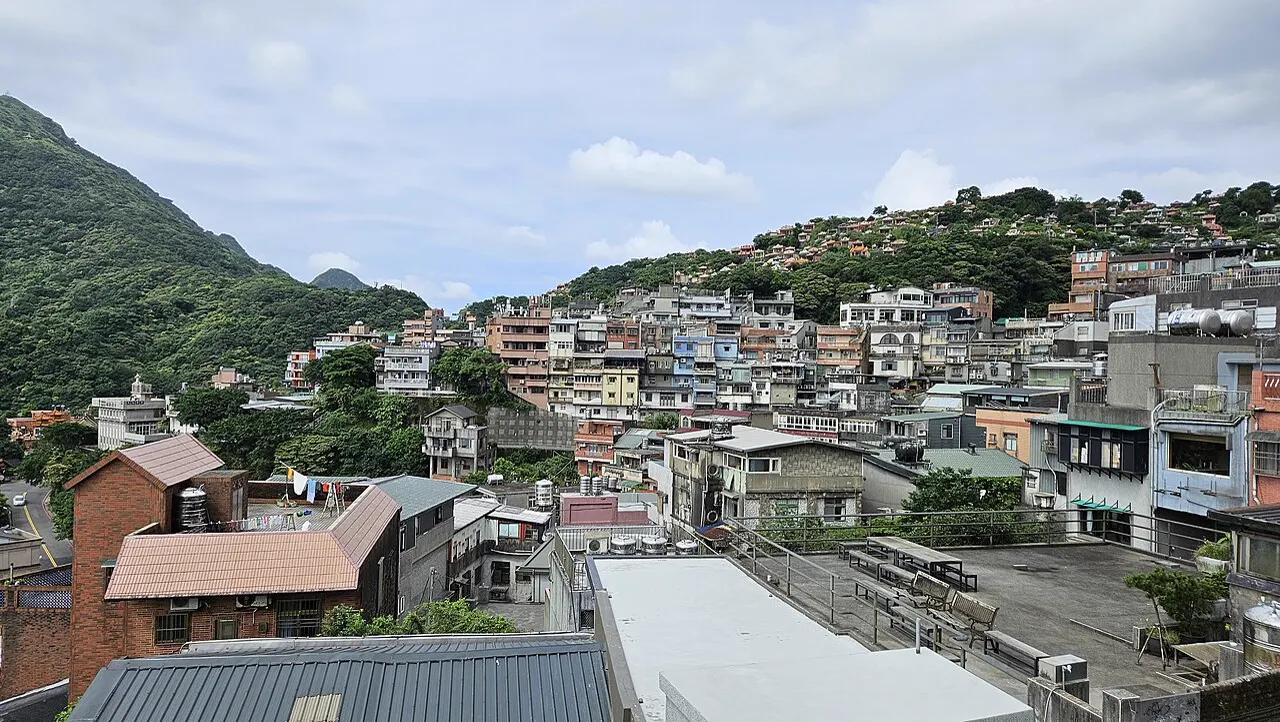
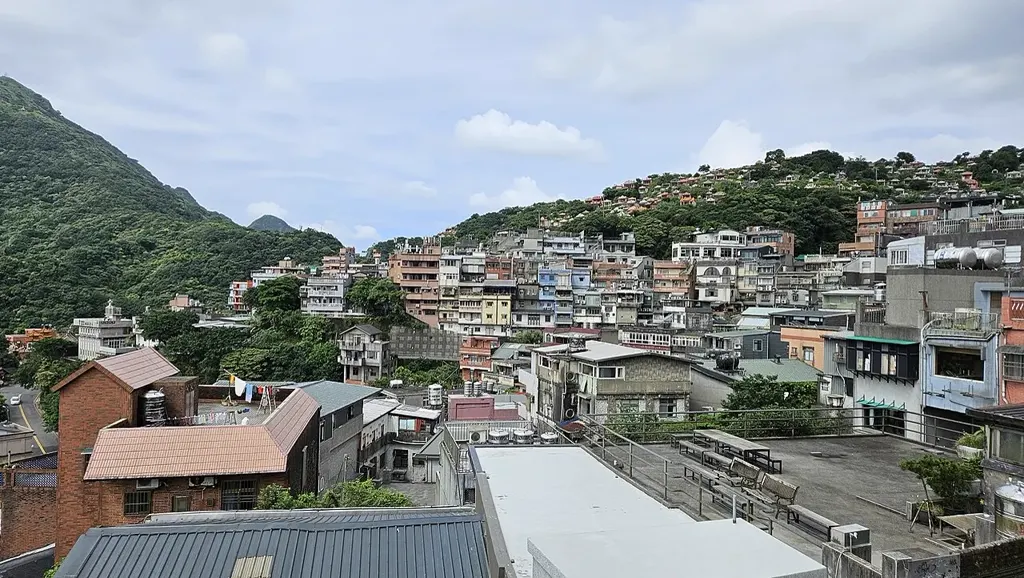
Fix accessibility and asset metadata

diff --git a/credits.html b/credits.html
@@ -15,18 +15,20 @@
   <header class="site-header"><div class="container header-panel">
     <a class="logo-badge" href="index.html" aria-label="Taiwan home">TW</a>
     <button class="menu-button" type="button" aria-expanded="false" aria-controls="site-menu">Menu</button>
+    <nav aria-label="Main">
     <ul class="site-menu" id="site-menu"><li><a href="index.html">Home</a></li><li><a href="attractions.html">Attractions</a></li><li><a href="food.html">Food</a></li><li><a href="credits.html" aria-current="page">Credits</a></li></ul>
+    </nav>
   </div></header>
   <main id="main">
     <section class="section"><div class="container"><h1>Credits</h1>
       <h2>Images and video</h2>
       <ul class="credits-list">
-        <li><strong>Taipei 101</strong> — <a href="https://commons.wikimedia.org/wiki/File:Taipei_101_2009_amk-EditMylius.jpg">AngMoKio</a>, <a href="https://commons.wikimedia.org/wiki/File:Taipei_101_2009_amk-EditMylius.jpg">Wikimedia Commons</a>, <a href="https://creativecommons.org/licenses/by-sa/3.0">CC BY-SA 3.0</a>. Used on: Home, Attractions.</li>
-        <li><strong>Taroko Gorge</strong> — <a href="https://commons.wikimedia.org/wiki/File:Taroko-Gorge_Hualien_Taiwan_Cihmu-Bridge-at-Taroko-National-Park-01.jpg">CEphoto, Uwe Aranas</a>, Wikimedia Commons, <a href="https://creativecommons.org/licenses/by-sa/3.0">CC BY-SA 3.0</a>. Used on: Home, Attractions.</li>
-        <li><strong>Sun Moon Lake</strong> — <a href="https://commons.wikimedia.org/wiki/File:Kandance2005_sun_moon_lake.jpg">Kandance2005</a>, Wikimedia Commons, <a href="https://creativecommons.org/licenses/by-sa/2.0/tw/deed.en">CC BY-SA 2.0 Taiwan</a>. Used on: Home, Attractions.</li>
-        <li><strong>Jiufen Buildings</strong> — <a href="https://commons.wikimedia.org/wiki/File:Jiufen_Buildings_1.jpg">Ganmatthew</a>, Wikimedia Commons, <a href="https://creativecommons.org/licenses/by/4.0">CC BY 4.0</a>. Used on: Home, Attractions.</li>
-        <li><strong>Linjiang Street Night Market</strong> — <a href="https://commons.wikimedia.org/wiki/File:2007-10-23_pancakes_vendor_at_Linjiang_Street_Night_Market,_Taipei.jpg">Yun Huang Yong</a>, Wikimedia Commons, <a href="https://creativecommons.org/licenses/by/2.0">CC BY 2.0</a>. Used on: Home, Attractions, Food.</li>
-        <li><strong>50 Lan Bubble Tea</strong> — <a href="https://commons.wikimedia.org/wiki/File:50_Lan_Bubble_Tea_20061226.jpg">Toby Oxborrow</a>, Wikimedia Commons, <a href="https://creativecommons.org/licenses/by-sa/2.0">CC BY-SA 2.0</a>. Used on: Food.</li>
+        <li><strong>Taipei 101</strong> — <a href="https://commons.wikimedia.org/wiki/User:AngMoKio">AngMoKio</a>, <a href="https://commons.wikimedia.org/wiki/File:Taipei_101_2009_amk-EditMylius.jpg">Wikimedia Commons</a>, <a href="https://creativecommons.org/licenses/by-sa/3.0">CC BY-SA 3.0</a>. Used on: Home, Attractions.</li>
+        <li><strong>Taroko Gorge</strong> — <a href="https://commons.wikimedia.org/wiki/User:Ce_photo">CEphoto, Uwe Aranas</a>, <a href="https://commons.wikimedia.org/wiki/File:Taroko-Gorge_Hualien_Taiwan_Cihmu-Bridge-at-Taroko-National-Park-01.jpg">Wikimedia Commons</a>, <a href="https://creativecommons.org/licenses/by-sa/3.0">CC BY-SA 3.0</a>. Used on: Home, Attractions.</li>
+        <li><strong>Sun Moon Lake</strong> — <a href="https://commons.wikimedia.org/wiki/User:Kandance2005">Kandance2005</a>, <a href="https://commons.wikimedia.org/wiki/File:Kandance2005_sun_moon_lake.jpg">Wikimedia Commons</a>, <a href="https://creativecommons.org/licenses/by-sa/2.0/tw/deed.en">CC BY-SA 2.0 Taiwan</a>. Used on: Home, Attractions.</li>
+        <li><strong>Jiufen Buildings</strong> — <a href="https://commons.wikimedia.org/wiki/User:Ganmatthew">Ganmatthew</a>, <a href="https://commons.wikimedia.org/wiki/File:Jiufen_Buildings_1.jpg">Wikimedia Commons</a>, <a href="https://creativecommons.org/licenses/by/4.0">CC BY 4.0</a>. Used on: Home, Attractions.</li>
+        <li><strong>Linjiang Street Night Market</strong> — <a href="https://commons.wikimedia.org/wiki/User:Yun_Huang_Yong">Yun Huang Yong</a>, <a href="https://commons.wikimedia.org/wiki/File:2007-10-23_pancakes_vendor_at_Linjiang_Street_Night_Market,_Taipei.jpg">Wikimedia Commons</a>, <a href="https://creativecommons.org/licenses/by/2.0">CC BY 2.0</a>. Used on: Home, Food.</li>
+        <li><strong>50 Lan Bubble Tea</strong> — <a href="https://commons.wikimedia.org/wiki/User:Toby_Oxborrow">Toby Oxborrow</a>, <a href="https://commons.wikimedia.org/wiki/File:50_Lan_Bubble_Tea_20061226.jpg">Wikimedia Commons</a>, <a href="https://creativecommons.org/licenses/by-sa/2.0">CC BY-SA 2.0</a>. Used on: Food.</li>
         <li><strong>Google Timelapse: Taipei, Taiwan</strong> — <a href="https://commons.wikimedia.org/wiki/File:Google_Timelapse-_Taipei,_Taiwan.webm">Google Earth</a>, Wikimedia Commons, <a href="https://creativecommons.org/licenses/by/3.0">CC BY 3.0</a>. Used on: Home. Re-encoded to a 40-second WebM clip.</li>
       </ul>
       <h2>Text and code resources</h2>
@@ -37,7 +39,7 @@
         <li><a href="https://www.govinfo.gov/content/pkg/STATUTE-94/pdf/STATUTE-94-Pg224.pdf">Taiwan Relations Act</a> — United States public law, 1979. Short quotation used on Home.</li>
       </ul>
       <h2>AI assistance</h2>
-      <p>Copilot SDK in VS Code was used to plan the pages, write HTML/CSS/JavaScript, select and verify Wikimedia Commons media candidates, prepare image and video assets, and draft this credits list. The student remains responsible for final review and publication.</p>
+      <p>Copilot SDK in VS Code was used to plan the pages, write HTML/CSS/JavaScript, select and verify Wikimedia Commons media candidates, prepare image and video assets, and draft this credits list. Claude was not used. Images and video were resized or cropped and converted or re-encoded to the WebP/WebM formats used on this site. The student remains responsible for final review and publication.</p>
     </div></section>
   </main>
   <footer class="site-footer"><div class="container footer-inner"><p>Friendly travel guide to Taiwan.</p><a href="index.html">Back to Home</a></div></footer>

diff --git a/index.html b/index.html
@@ -19,18 +19,20 @@
     <div class="container header-panel">
       <a class="logo-badge" href="index.html" aria-label="Taiwan home">TW</a>
       <button class="menu-button" type="button" aria-expanded="false" aria-controls="site-menu">Menu</button>
+      <nav aria-label="Main">
       <ul class="site-menu" id="site-menu">
         <li><a href="index.html" aria-current="page">Home</a></li>
         <li><a href="attractions.html">Attractions</a></li>
         <li><a href="food.html">Food</a></li>
         <li><a href="credits.html">Credits</a></li>
       </ul>
+      </nav>
     </div>
   </header>
   <main id="main">
     <section class="hero">
       <div class="container hero-card">
-        <img src="images/taipei-101.webp" alt="Taipei 101 rising above the city skyline" width="1280" height="853">
+        <img src="images/taipei-101.webp" alt="Taipei 101 rising above the city skyline" width="1024" height="1652">
         <div class="hero-title"><h1>Taiwan</h1><p>An island of mountain trails, night markets and warm welcomes.</p></div>
       </div>
     </section>
@@ -43,24 +45,24 @@
           <dl class="fact-list">
             <div><dt>Capital</dt><dd>Taipei</dd></div>
             <div><dt>Population</dt><dd>~23.5 million</dd></div>
-            <div><dt>Languages</dt><dd>Mandarin</dd></div>
+            <div><dt>Languages</dt><dd>Mandarin, Taiwanese, Hakka and Indigenous languages</dd></div>
             <div><dt>Currency</dt><dd>New Taiwan dollar</dd></div>
           </dl>
         </div>
-        <img src="images/sun-moon-lake.webp" alt="Mountain ridges surrounding a calm lake" width="1280" height="853" loading="lazy">
+        <img src="images/sun-moon-lake.webp" alt="Mountain ridges surrounding a calm lake" width="1280" height="960" loading="lazy">
       </div>
     </section>
     <section class="section panel pink">
       <div class="container">
-        <h2 class="pickup-heading">Pick up</h2>
+        <h2 class="pickup-heading">Featured</h2>
         <div class="card-grid">
-          <article class="pickup-card"><a href="attractions.html"><img src="images/taroko.webp" alt="" width="1280" height="853" loading="lazy"><div class="card-copy"><span class="tag">Nature</span><h3>Walk through Taroko Gorge</h3></div></a></article>
-          <article class="pickup-card"><a href="attractions.html"><img src="images/jiufen.webp" alt="" width="1280" height="853" loading="lazy"><div class="card-copy"><span class="tag">Old town</span><h3>Explore Jiufen's lanes</h3></div></a></article>
-          <article class="pickup-card"><a href="food.html"><img src="images/night-market.webp" alt="" width="1280" height="853" loading="lazy"><div class="card-copy"><span class="tag">Night market</span><h3>Taste Taipei after dark</h3></div></a></article>
+          <article class="pickup-card"><a href="attractions.html"><img src="images/taroko.webp" alt="" width="1024" height="684" loading="lazy"><div class="card-copy"><span class="tag">Nature</span><h3>Walk through Taroko Gorge</h3></div></a></article>
+          <article class="pickup-card"><a href="attractions.html"><img src="images/jiufen.webp" alt="" width="1024" height="578" loading="lazy"><div class="card-copy"><span class="tag">Old town</span><h3>Explore Jiufen's lanes</h3></div></a></article>
+          <article class="pickup-card"><a href="food.html"><img src="images/night-market.webp" alt="" width="1280" height="960" loading="lazy"><div class="card-copy"><span class="tag">Night market</span><h3>Taste Taipei after dark</h3></div></a></article>
         </div>
       </div>
     </section>
-    <section class="section">
+    <section class="section" id="video">
       <div class="container">
         <h2>Watch Taipei in motion</h2>
         <video controls preload="metadata" poster="images/taipei-101.webp">
@@ -72,10 +74,12 @@
     </section>
     <section class="section">
       <div class="container">
-        <blockquote class="quote-card">
-          “It is the policy of the United States to preserve and promote extensive, people-to-people relations between the inhabitants of the United States and the people on Taiwan.”
-          <cite>Taiwan Relations Act, Public Law 96-8, 1979</cite>
-        </blockquote>
+        <figure class="quote-card">
+          <blockquote>
+            “It is the policy of the United States to preserve and promote extensive, people-to-people relations between the inhabitants of the United States and the people on Taiwan.”
+          </blockquote>
+          <figcaption>Taiwan Relations Act, Public Law 96-8, 1979</figcaption>
+        </figure>
       </div>
     </section>
     <section class="section">
@@ -84,7 +88,7 @@
         <nav class="round-links" aria-label="Explore website">
           <a class="round-link" href="attractions.html">Explore</a>
           <a class="round-link" href="food.html">Eat</a>
-          <a class="round-link" href="#main">Watch</a>
+          <a class="round-link" href="#video">Watch</a>
           <a class="round-link" href="credits.html">Credits</a>
         </nav>
       </div>

diff --git a/attractions.html b/attractions.html
@@ -15,17 +15,17 @@
   <header class="site-header"><div class="container header-panel">
     <a class="logo-badge" href="index.html" aria-label="Taiwan home">TW</a>
     <button class="menu-button" type="button" aria-expanded="false" aria-controls="site-menu">Menu</button>
+    <nav aria-label="Main">
     <ul class="site-menu" id="site-menu"><li><a href="index.html">Home</a></li><li><a href="attractions.html" aria-current="page">Attractions</a></li><li><a href="food.html">Food</a></li><li><a href="credits.html">Credits</a></li></ul>
+    </nav>
   </div></header>
   <main id="main">
     <section class="section"><div class="container"><h1>Places to explore</h1><p>From high-rise city views to mountain villages and deep gorges, Taiwan rewards travellers who mix major sights with slower local journeys.</p></div></section>
     <section class="section"><div class="container gallery">
-      <article class="attraction-card"><img src="images/taipei-101.webp" alt="Taipei 101 seen from near its base" width="1280" height="853" loading="lazy"><div><h2>Taipei 101</h2><p>The landmark tower offers skyline views, high-speed elevators and a mall below.</p><span class="tag">Best: clear autumn days</span></div></article>
-      <article class="attraction-card"><img src="images/taroko.webp" alt="A road bridge crossing the dramatic Taroko Gorge" width="1280" height="853" loading="lazy"><div><h2>Taroko Gorge</h2><p>Marble cliffs, tunnels and rivers define this celebrated national park.</p><span class="tag">Best: spring and autumn</span></div></article>
-      <article class="attraction-card"><img src="images/sun-moon-lake.webp" alt="Sun Moon Lake framed by green mountains" width="1280" height="853" loading="lazy"><div><h2>Sun Moon Lake</h2><p>Cycle beside the water or take a ferry between lakeside villages.</p><span class="tag">Best: October to April</span></div></article>
-      <article class="attraction-card"><img src="images/jiufen.webp" alt="Hillside buildings and lanes in Jiufen" width="1280" height="853" loading="lazy"><div><h2>Jiufen</h2><p>A former mining town with tea houses, stair lanes and misty mountain views.</p><span class="tag">Best: weekdays</span></div></article>
-      <article class="attraction-card"><img src="images/taipei-101.webp" alt="Taipei city and high-rise buildings" width="1280" height="853" loading="lazy"><div><h2>Alishan</h2><p>Ride mountain railways through forests and watch sunrise over rolling cloud seas.</p><span class="tag">Best: October to March</span></div></article>
-      <article class="attraction-card"><img src="images/night-market.webp" alt="A busy night-market street in Taipei" width="1280" height="853" loading="lazy"><div><h2>Tainan old streets</h2><p>Temple lanes, historic homes and long-running food stalls make Tainan an easygoing detour.</p><span class="tag">Best: cool, dry months</span></div></article>
+      <article class="attraction-card"><img src="images/taipei-101.webp" alt="Taipei 101 seen from near its base" width="1024" height="1652" loading="lazy"><div><h2>Taipei 101</h2><p>The landmark tower offers skyline views, high-speed elevators and a mall below.</p><span class="tag">Best: clear autumn days</span></div></article>
+      <article class="attraction-card"><img src="images/taroko.webp" alt="A road bridge crossing the dramatic Taroko Gorge" width="1024" height="684" loading="lazy"><div><h2>Taroko Gorge</h2><p>Marble cliffs, tunnels and rivers define this celebrated national park.</p><span class="tag">Best: spring and autumn</span></div></article>
+      <article class="attraction-card"><img src="images/sun-moon-lake.webp" alt="Sun Moon Lake framed by green mountains" width="1280" height="960" loading="lazy"><div><h2>Sun Moon Lake</h2><p>Cycle beside the water or take a ferry between lakeside villages.</p><span class="tag">Best: October to April</span></div></article>
+      <article class="attraction-card"><img src="images/jiufen.webp" alt="Hillside buildings and lanes in Jiufen" width="1024" height="578" loading="lazy"><div><h2>Jiufen</h2><p>A former mining town with tea houses, stair lanes and misty mountain views.</p><span class="tag">Best: weekdays</span></div></article>
     </div></section>
   </main>
   <footer class="site-footer"><div class="container footer-inner"><p>Friendly travel guide to Taiwan.</p><a href="credits.html">Media credits</a></div></footer>

diff --git a/food.html b/food.html
@@ -15,13 +15,15 @@
   <header class="site-header"><div class="container header-panel">
     <a class="logo-badge" href="index.html" aria-label="Taiwan home">TW</a>
     <button class="menu-button" type="button" aria-expanded="false" aria-controls="site-menu">Menu</button>
+    <nav aria-label="Main">
     <ul class="site-menu" id="site-menu"><li><a href="index.html">Home</a></li><li><a href="attractions.html">Attractions</a></li><li><a href="food.html" aria-current="page">Food</a></li><li><a href="credits.html">Credits</a></li></ul>
+    </nav>
   </div></header>
   <main id="main">
     <section class="section"><div class="container"><h1>Taiwan on a plate</h1><p>Taiwanese food blends local traditions with influences from many communities. Night markets make small tastings especially easy.</p></div></section>
     <section class="section"><div class="container food-grid">
-      <div class="food-feature"><img src="images/night-market.webp" alt="A food stall in Linjiang Street Night Market" width="1280" height="853" loading="lazy"><h2>Night markets</h2><p>Start in Taipei's Raohe or Shilin markets, then try smaller evening markets in Tainan or Kaohsiung.</p></div>
-      <div class="food-feature"><img src="images/bubble-tea.webp" alt="A Taiwanese bubble tea shop and drinks" width="1280" height="853" loading="lazy"><h2>Bubble tea</h2><p>Chewy tapioca pearls, tea and milk form a refreshing snack, but the combinations are nearly endless.</p></div>
+      <div class="food-feature"><img src="images/night-market.webp" alt="A food stall in Linjiang Street Night Market" width="1280" height="960" loading="lazy"><h2>Night markets</h2><p>Start in Taipei's Raohe or Shilin markets, then try smaller evening markets in Tainan or Kaohsiung.</p></div>
+      <div class="food-feature"><img src="images/bubble-tea.webp" alt="A Taiwanese bubble tea shop and drinks" width="1280" height="1704" loading="lazy"><h2>Bubble tea</h2><p>Chewy tapioca pearls, tea and milk form a refreshing snack, but the combinations are nearly endless.</p></div>
     </div></section>
     <section class="section"><div class="container">
       <section class="table-scroll" tabindex="0" aria-label="Scrollable table of Taiwanese dishes">
@@ -42,10 +44,10 @@
       <h2>Share a food recommendation</h2>
       <form action="#" method="post">
         <fieldset><legend>Contact details</legend>
-          <label for="name">Name</label><input id="name" name="name" type="text" autocomplete="name" required>
-          <label for="email">Email</label><input id="email" name="email" type="email" autocomplete="email" required>
+          <label for="name">Name (required)</label><input id="name" name="name" type="text" autocomplete="name" required>
+          <label for="email">Email (required)</label><input id="email" name="email" type="email" autocomplete="email" required>
           <label for="dish">Favourite dish</label><select id="dish" name="dish"><option value="">Choose one</option><option>Niu rou mian</option><option>Xiaolongbao</option><option>Bubble tea</option><option>Chou doufu</option><option>Oa jian</option></select>
-          <label for="message">Message</label><textarea id="message" name="message" required aria-describedby="message-hint"></textarea><small id="message-hint">Tell us where you ate and what made it memorable.</small>
+          <label for="message">Message (required)</label><textarea id="message" name="message" required aria-describedby="message-hint"></textarea><small id="message-hint">Tell us where you ate and what made it memorable.</small>
         </fieldset>
         <button class="submit-button" type="submit">Send recommendation</button>
       </form>

diff --git a/css/styles.css b/css/styles.css
@@ -87,7 +87,9 @@ a:hover { text-decoration-thickness: 3px; }
   padding: .75rem 1rem;
   cursor: pointer;
 }
-.site-menu { display: none; margin: 0; padding: 0; list-style: none; }
+.site-menu { display: grid; margin: 0; padding: 0; list-style: none; }
+.js-nav .site-menu { display: none; }
+.js-nav .site-menu.is-open { display: grid; width: 100%; }
 .site-menu.is-open { display: grid; width: 100%; }
 .site-menu li { text-align: center; }
 .site-menu a {
@@ -141,6 +143,7 @@ a:hover { text-decoration-thickness: 3px; }
 video { width: 100%; border: 8px solid var(--white); border-radius: 24px; outline: 5px solid var(--lime); background: #000; }
 .quote-card { background: var(--pink); border: 0; border-radius: 24px; margin: 0; padding: 1.5rem; }
 .quote-card cite { display: block; margin-top: .75rem; color: var(--teal); }
+.quote-card figcaption { margin-top: .75rem; color: var(--teal); }
 .round-links { display: grid; grid-template-columns: repeat(2, 1fr); gap: 1rem; }
 .round-link {
   display: grid;
@@ -203,8 +206,9 @@ textarea { min-height: 140px; resize: vertical; }
 }
 @media (min-width: 900px) {
   .header-panel { border-radius: 999px; }
+  .header-panel nav { margin-left: auto; }
   .menu-button { display: none; }
-  .site-menu, .js-nav .site-menu.is-open { display: flex; margin-left: auto; width: auto; }
+  .site-menu, .js-nav .site-menu, .js-nav .site-menu.is-open { display: flex; margin-left: auto; width: auto; }
   .site-menu a { min-width: 104px; }
   .about-grid { grid-template-columns: 1fr 1fr; align-items: center; }
   .card-grid { grid-template-columns: repeat(3, minmax(0,1fr)); }
@@ -217,5 +221,3 @@ textarea { min-height: 140px; resize: vertical; }
 @media (prefers-reduced-motion: reduce) {
   html { scroll-behavior: auto; }
 }
-:root {
-  --cream: #fffdf8;

diff --git a/README.md b/README.md
@@ -12,3 +12,7 @@ A four-page, mobile-first travel guide about Taiwan built with semantic HTML, CS
 ## Run locally
 
 Open `index.html` in a browser or serve the folder with a static server.
+
+## Live site
+
+GitHub Pages: <https://daisy-chang-web.github.io/Country-website-ai/>
